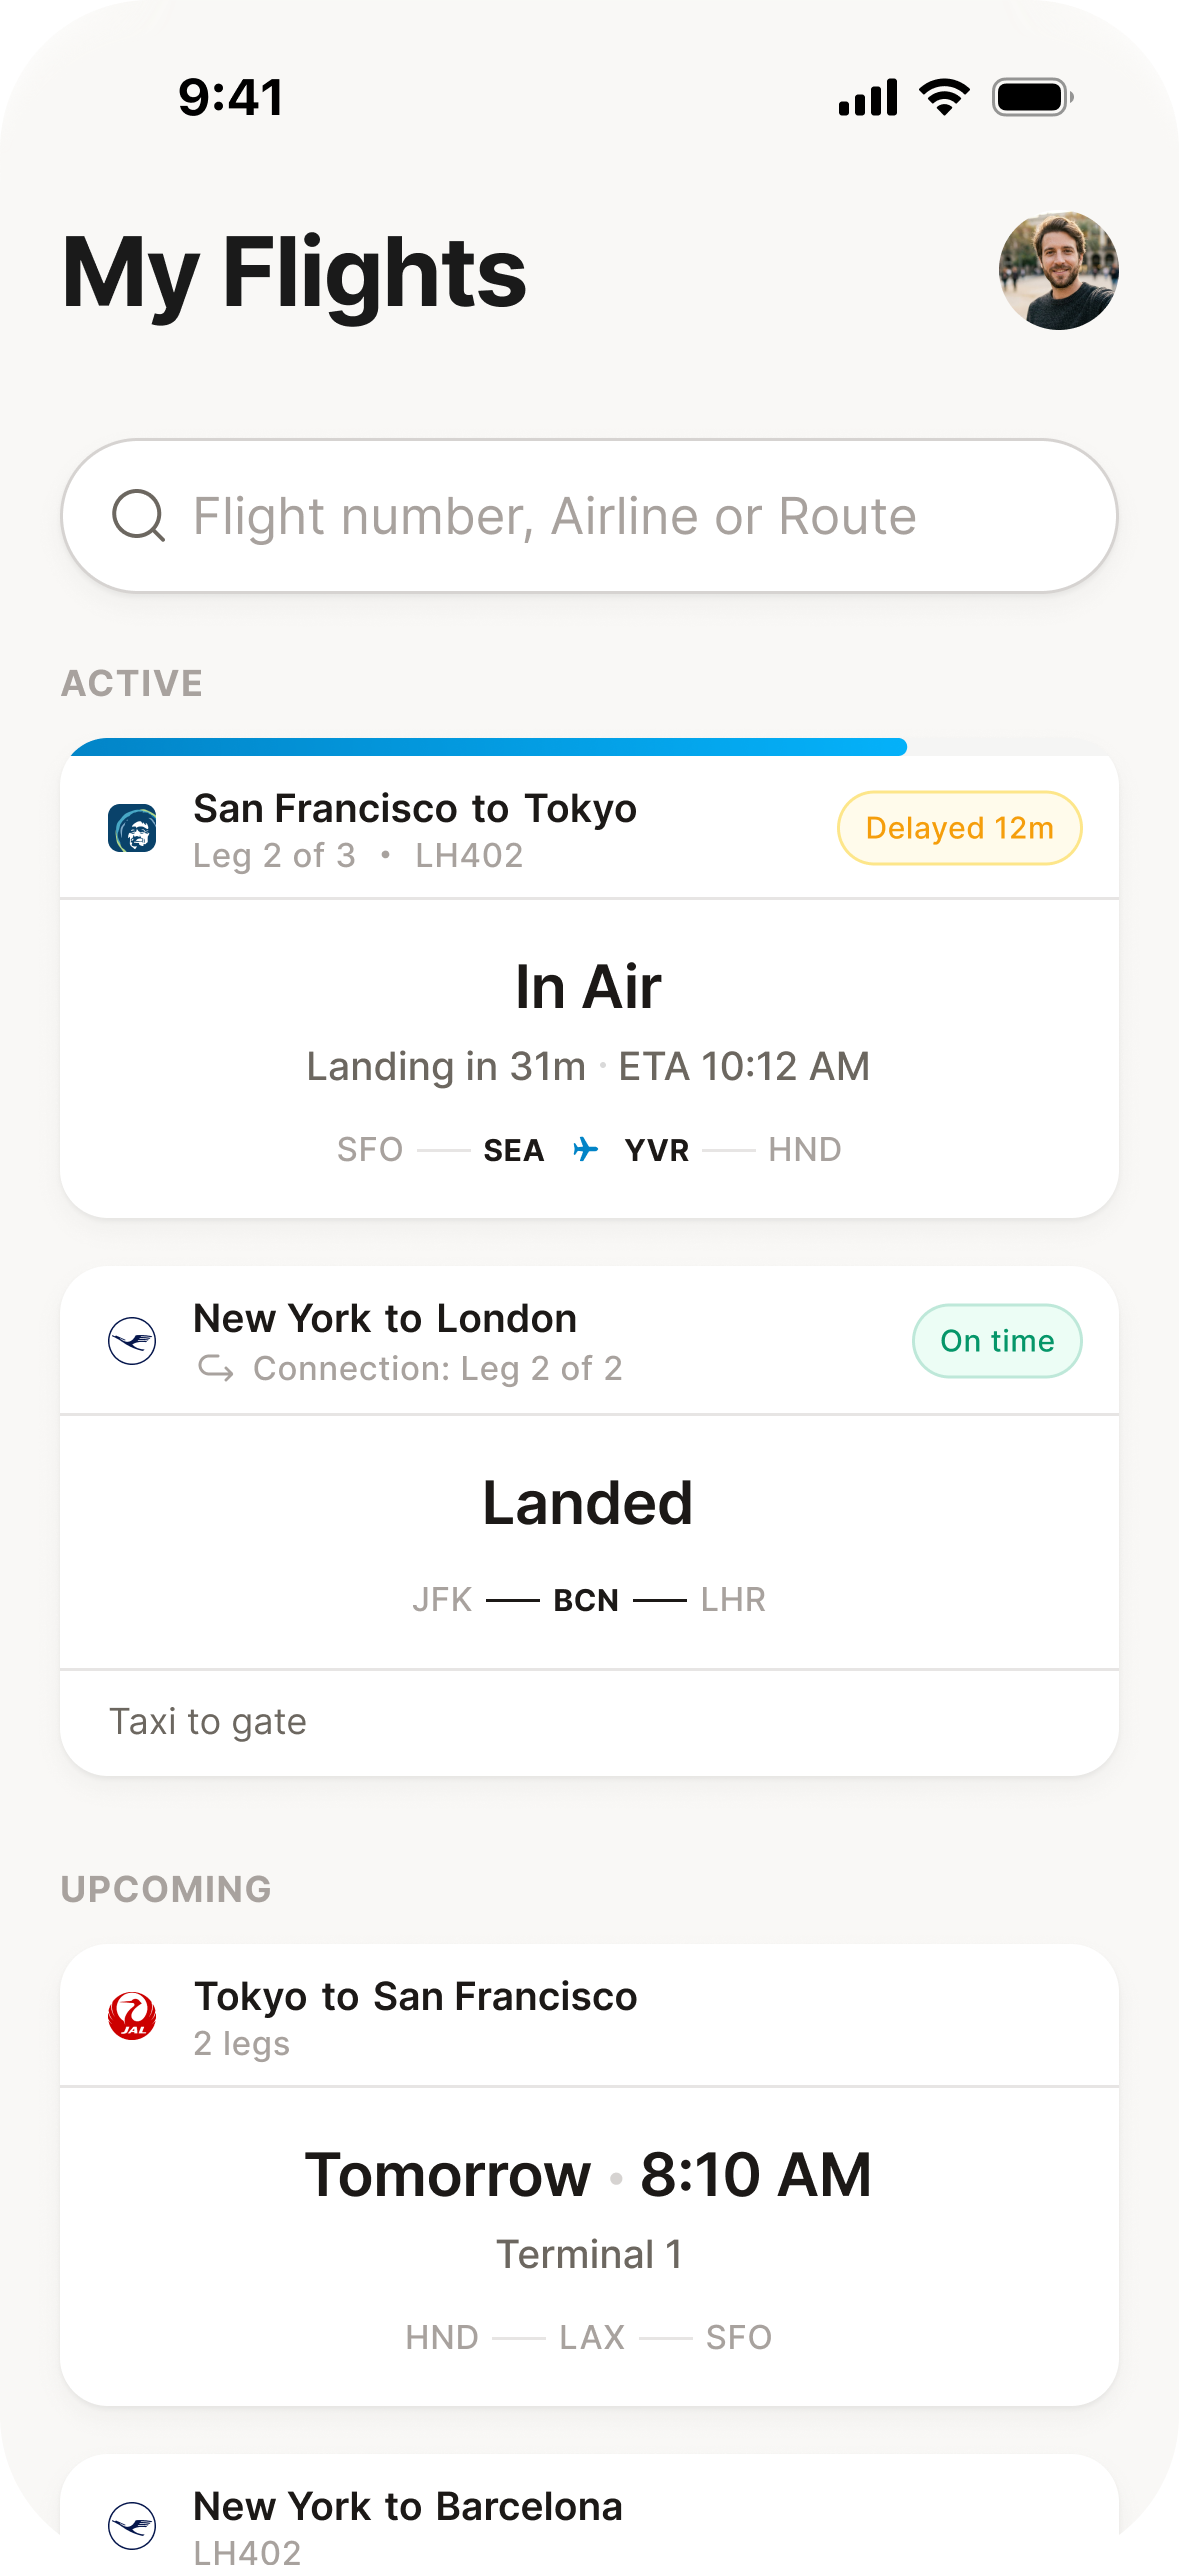
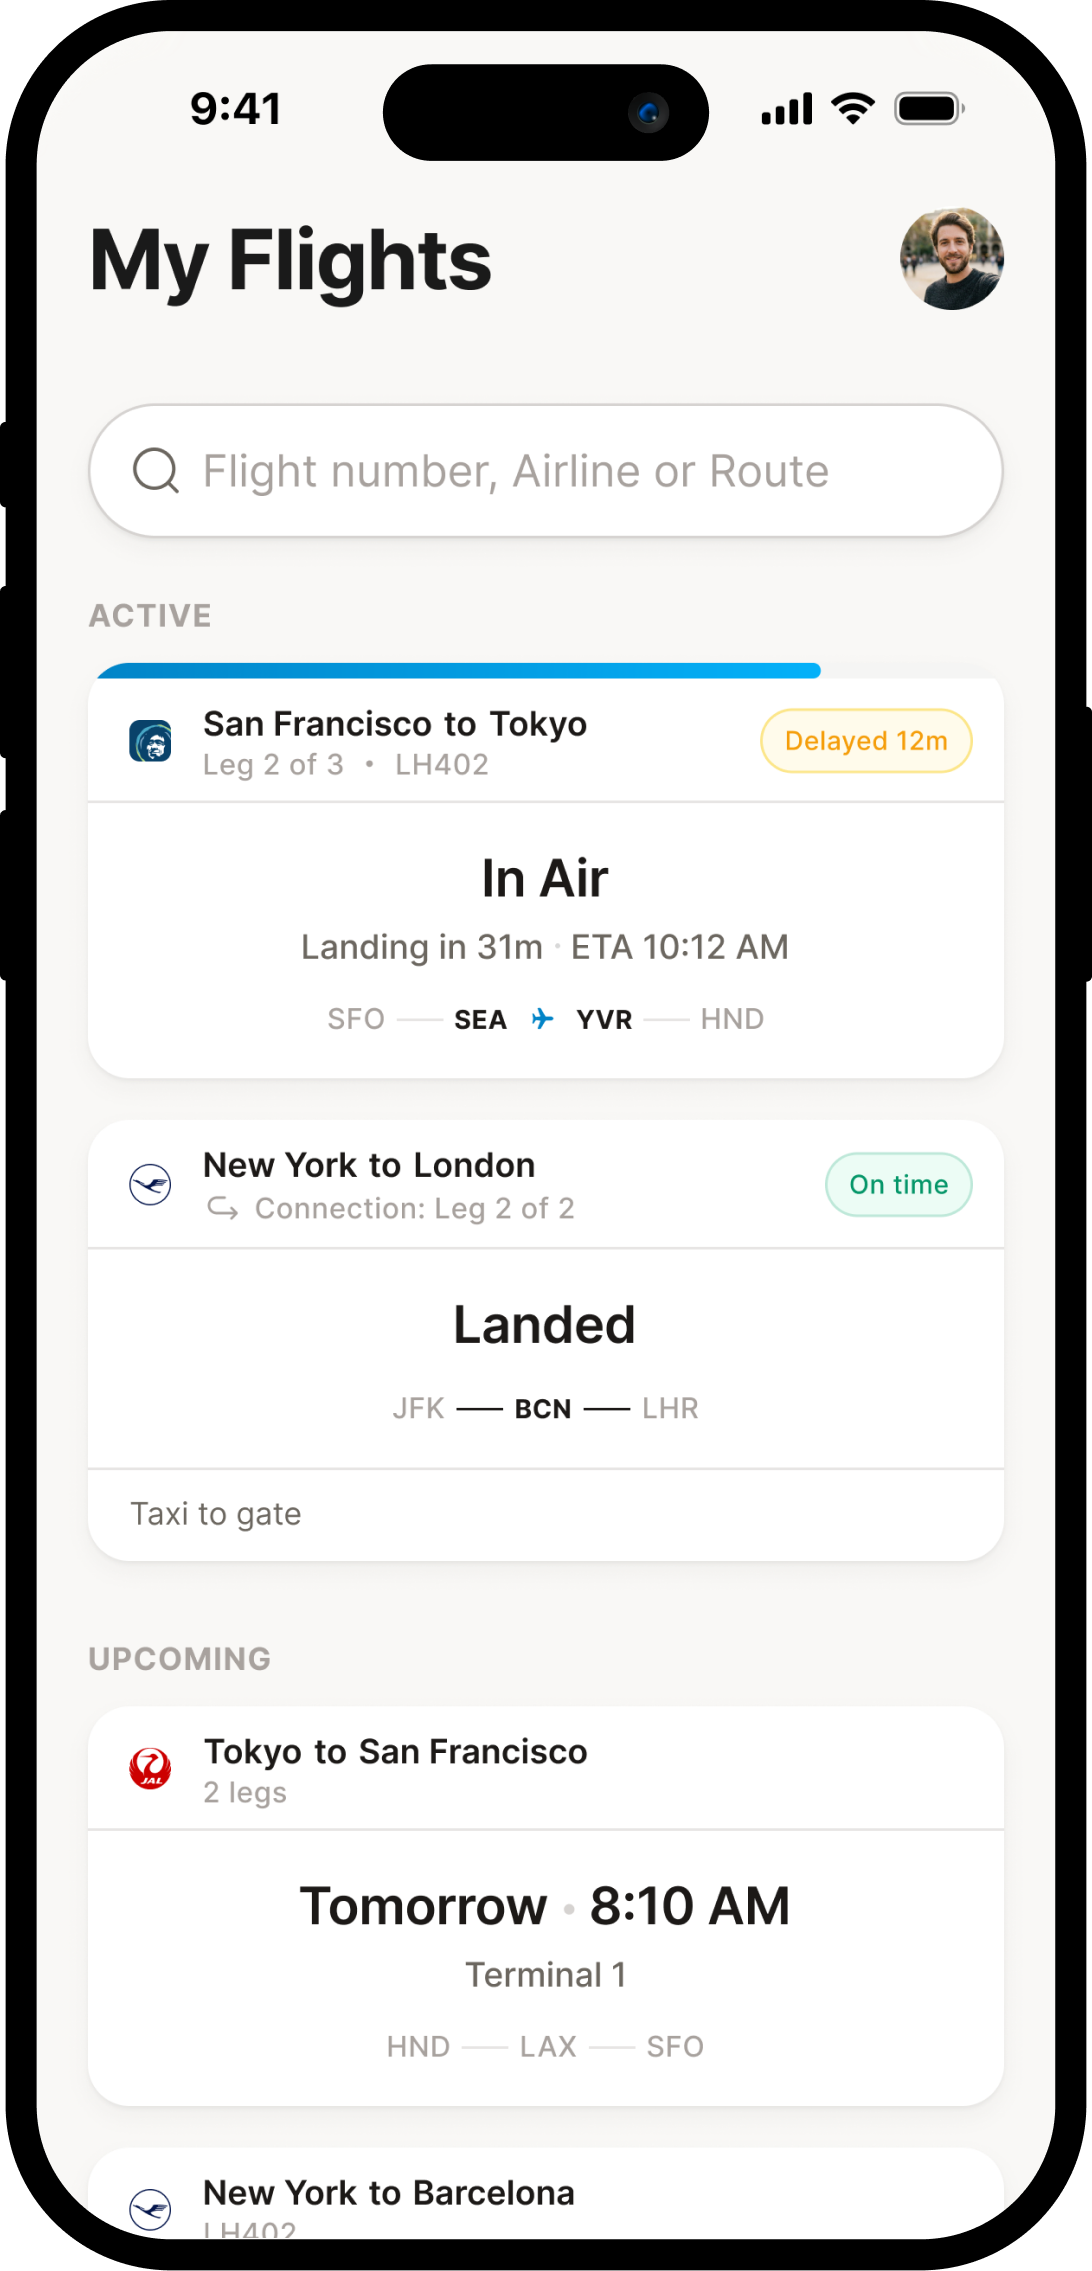
Replace How It Works phone mockups with Figma designs
Exported 4 step screens directly from Figma via REST API.
Removed old screen+chrome overlay structure — Figma frames
already include the phone chrome, so each step now renders
as a single full-bleed image with border-radius + shadow.

diff --git a/app/components/HowItWorksScroll.tsx b/app/components/HowItWorksScroll.tsx
@@ -38,21 +38,11 @@ const FADE_OUT = 180;
 // Desktop phone card dimensions
 const CARD_W = 238;
 const CARD_H = 495;
-const SCR_L  = 6;
-const SCR_W  = 222;
-const SCR_H  = 481;
-const SCR_T  = Math.round((CARD_H - SCR_H) / 2);
-const SCR_R  = 29;
 const CARD_R = 36;
 
 // Mobile phone card dimensions (proportionally scaled to 240px width)
 const M_CARD_W = 240;
 const M_CARD_H = Math.round(495 * (M_CARD_W / 238));
-const M_SCR_L  = Math.round(SCR_L  * (M_CARD_W / 238));
-const M_SCR_W  = M_CARD_W - M_SCR_L * 2;
-const M_SCR_H  = Math.round(SCR_H  * (M_CARD_W / 238));
-const M_SCR_T  = Math.round((M_CARD_H - M_SCR_H) / 2);
-const M_SCR_R  = Math.round(SCR_R  * (M_CARD_W / 238));
 const M_CARD_R = Math.round(CARD_R * (M_CARD_W / 238));
 
 // Mobile carousel: 32px side peek shows adjacent cards
@@ -408,40 +398,20 @@ export default function HowItWorksScroll() {
         /* ── Desktop phone card ── */
         .hiw-phone-col { flex-shrink: 0; }
         .hiw-card {
-          position: relative;
           width: ${CARD_W}px;
           height: ${CARD_H}px;
-          background: #ffffff;
           border-radius: ${CARD_R}px;
+          overflow: hidden;
           box-shadow:
             0px 4px 12px 0px rgba(0, 0, 0, 0.05),
             32px 32px 64px 0px rgba(23, 29, 46, 0.12);
           transition: opacity ${FADE_OUT}ms ease, transform ${FADE_OUT}ms ease;
         }
         .hiw-card.fade { opacity: 0; transform: scale(0.96); }
-        .hiw-screen {
-          position: absolute;
-          left: ${SCR_L}px;
-          top: ${SCR_T}px;
-          width: ${SCR_W}px;
-          height: ${SCR_H}px;
-          border-radius: ${SCR_R}px;
-          overflow: hidden;
-          background: #f0f0f0;
-        }
-        .hiw-screen img {
+        .hiw-mockup {
           width: 100%;
           height: 100%;
           object-fit: cover;
-          display: block;
-        }
-        .hiw-chrome {
-          position: absolute;
-          inset: 0;
-          width: 100%;
-          height: 100%;
-          pointer-events: none;
-          z-index: 1;
           display: block;
         }
 
@@ -503,39 +473,19 @@ export default function HowItWorksScroll() {
 
           /* Mobile phone card (proportionally scaled) */
           .hiw-slide-phone {
-            position: relative;
             width: ${M_CARD_W}px;
             height: ${M_CARD_H}px;
-            background: #ffffff;
             border-radius: ${M_CARD_R}px;
+            overflow: hidden;
             box-shadow:
               0px 4px 12px 0px rgba(0, 0, 0, 0.05),
               24px 24px 48px 0px rgba(23, 29, 46, 0.12);
             flex-shrink: 0;
           }
-          .hiw-slide-screen {
-            position: absolute;
-            left: ${M_SCR_L}px;
-            top: ${M_SCR_T}px;
-            width: ${M_SCR_W}px;
-            height: ${M_SCR_H}px;
-            border-radius: ${M_SCR_R}px;
-            overflow: hidden;
-            background: #f0f0f0;
-          }
-          .hiw-slide-screen img {
+          .hiw-slide-mockup {
             width: 100%;
             height: 100%;
             object-fit: cover;
-            display: block;
-          }
-          .hiw-slide-chrome {
-            position: absolute;
-            inset: 0;
-            width: 100%;
-            height: 100%;
-            pointer-events: none;
-            z-index: 1;
             display: block;
           }
 
@@ -650,10 +600,7 @@ export default function HowItWorksScroll() {
 
         <div className="hiw-phone-col">
           <div className={`hiw-card${visible ? '' : ' fade'}`}>
-            <div className="hiw-screen">
-              <img src={step.image} alt={`Step ${display + 1}: ${step.regular} ${step.italic}`} draggable={false} />
-            </div>
-            <img src="/Images/hero-phone-chrome.svg" className="hiw-chrome" alt="" aria-hidden="true" draggable={false} />
+            <img src={step.image} className="hiw-mockup" alt={`Step ${display + 1}: ${step.regular} ${step.italic}`} draggable={false} />
           </div>
         </div>
       </div>
@@ -680,10 +627,7 @@ export default function HowItWorksScroll() {
 
                 {/* Phone card */}
                 <div className="hiw-slide-phone">
-                  <div className="hiw-slide-screen">
-                    <img src={s.image} alt={`Step ${i + 1}: ${s.regular} ${s.italic}`} draggable={false} />
-                  </div>
-                  <img src="/Images/hero-phone-chrome.svg" className="hiw-slide-chrome" alt="" aria-hidden="true" draggable={false} />
+                  <img src={s.image} className="hiw-slide-mockup" alt={`Step ${i + 1}: ${s.regular} ${s.italic}`} draggable={false} />
                 </div>
               </div>
             ))}
